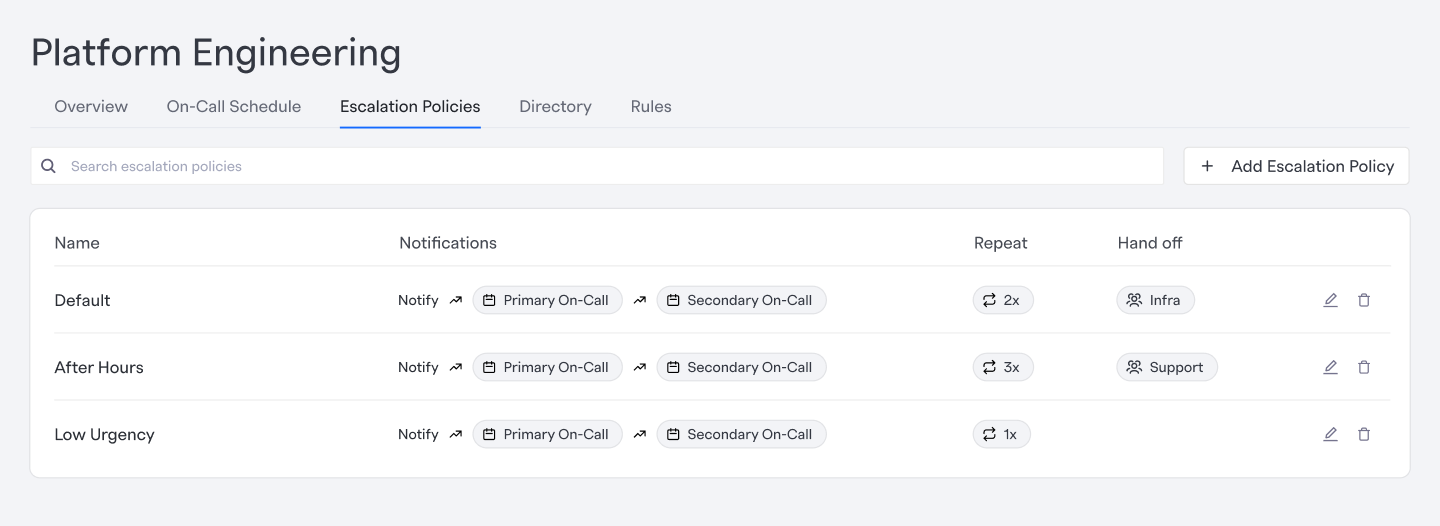
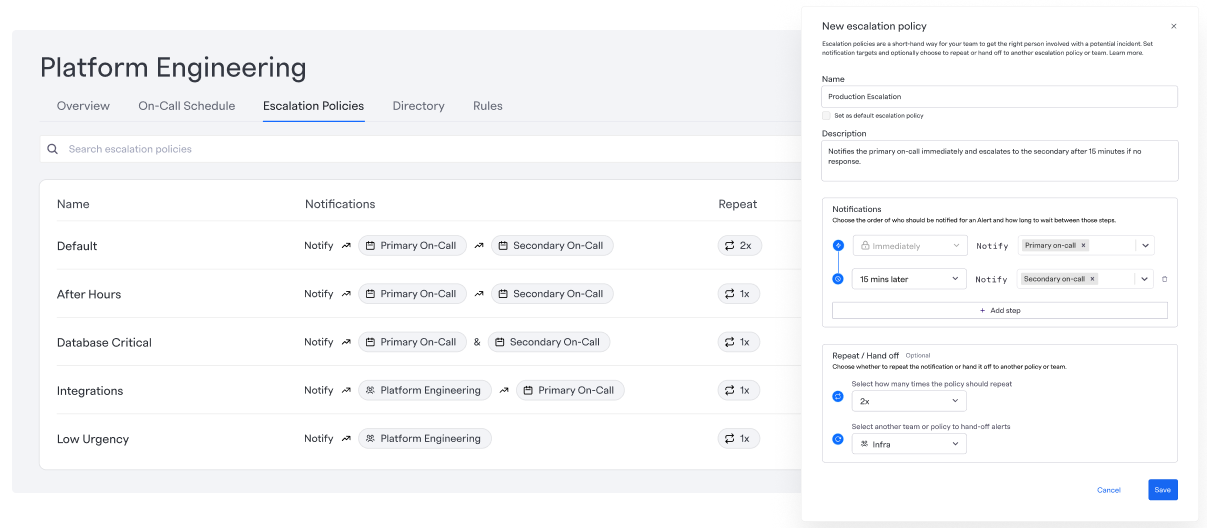
updating signals

diff --git a/app/work/page.tsx b/app/work/page.tsx
@@ -23,24 +23,24 @@ const projects = [
     year: "2023",
     description: "Real-time incident detection and alerting",
   },
-  {
-    title: "Status Pages",
-    company: "FireHydrant",
-    year: "2023",
-    description: "Real-time incident detection and alerting",
-  },
-  {
-    title: "Incident Declaration",
-    company: "FireHydrant",
-    year: "2022-2023",
-    description: "Real-time incident detection and alerting",
-  },
-  {
-    title: "Incident Declaration",
-    company: "FireHydrant",
-    year: "2022-2023",
-    description: "Real-time incident detection and alerting",
-  },
+  // {
+  //   title: "Status Pages",
+  //   company: "FireHydrant",
+  //   year: "2023",
+  //   description: "Real-time incident detection and alerting",
+  // },
+  // {
+  //   title: "Incident Declaration",
+  //   company: "FireHydrant",
+  //   year: "2022-2023",
+  //   description: "Real-time incident detection and alerting",
+  // },
+  // {
+  //   title: "Incident Declaration",
+  //   company: "FireHydrant",
+  //   year: "2022-2023",
+  //   description: "Real-time incident detection and alerting",
+  // },
 ];
 
 export default function Work() {
